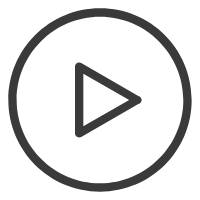
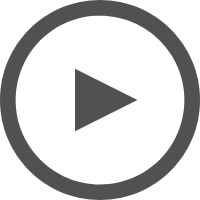
添加音乐播放

diff --git a/wxmusic/components/footer/footer.js b/wxmusic/components/footer/footer.js
@@ -1,10 +1,60 @@
-
+const { baseUrl } = require('../../utils/base.js');
+// 获取全局app中，
+const { data: { innerAudioContext } } = getApp();
 Component({
   data: {
+    playSong: null,
+    isPause: innerAudioContext.paused,
     headNav: [{
       icon: '../../static/音乐.png'
     }, {
       icon: '../../static/用户.png'
     }]
+  },
+  ready() {
+    this.palySong(108914);
+    this.getSongDetail(108914);
+  },
+  methods: {
+    changePlayState() {
+      // 是否暂停状态
+      this.data.isPause ? innerAudioContext.play() : innerAudioContext.pause();
+      this.ctrlBtn();
+    },
+    // 通过isPause的状态来切换按钮的展示
+    ctrlBtn(){
+      let isPause = !this.data.isPause;
+      this.setData({
+        isPause
+      })
+    },
+    //===============API===============\\
+    // 通过歌曲的id获取歌曲的url，可以利用url播放音乐
+    palySong(songId) {
+      let that = this;
+      wx.request({
+        url: `${baseUrl}/music/url?id=${songId}`,
+        success(res) {
+          let { data } = res;
+          let playSong = data.data[0];
+          that.setData({
+            playSong
+          });
+          console.log(playSong);
+          if (playSong) {
+            innerAudioContext.src = playSong.url;
+          }
+        },
+      })
+    },
+    getSongDetail(songId){
+      const that = this;
+      wx.request({
+        url: `${baseUrl}/song/detail?ids=${songId}`,
+        success(res){
+          console.log(res);
+        }
+      })
+    }
   }
 })

diff --git a/wxmusic/components/main/library/library.js b/wxmusic/components/main/library/library.js
@@ -27,12 +27,14 @@ Component({
       dotColor: 'rgba(255,255,255,0.4)',// 面板指示点默认颜色
       dotActiveColor: 'rgba(229,71,60,0.8)' // 面板指示点选中的颜色
     },
-
+    tjpersonalized:[],// 推荐歌单
   },
   // 钩子函数
   ready() {
     // 获取推荐的banner
     this.getBanners();
+    // 获取推荐歌单
+    this.getTjPersonalized();
   },
   methods: {
     //========事件========\\
@@ -48,18 +50,33 @@ Component({
       });
     },
     //========API=========\\
-    getBanners() {
+    getBanners() {// 获取中间的banner
+      let that = this;
       wx.request({
         url: `${baseUrl}/banner`,
-        success:(res)=>{
+        success(res){
           let { data: { banners } } = res;
-          let {swiper} = this.data;
+          let {swiper} = that.data;
           swiper.swiperList = banners;
-          this.setData({
+          that.setData({
             swiper
           });
         }
       })
     },
+    getTjPersonalized(){// 获取推荐歌单
+      let that = this;
+      wx.request({
+        url: `${baseUrl}/personalized`,
+        success:(res)=>{
+          let {data:{result}} = res;
+          let { tjpersonalized } = that.data;
+          tjpersonalized = result.slice(0,6);// 只保留前6个
+          that.setData({
+            tjpersonalized
+          });
+        }
+      })
+    }
   }
 })

diff --git a/wxmusic/app.js b/wxmusic/app.js
@@ -1,10 +1,21 @@
-//app.js
+//播放音乐的实例
+const innerAudioContext = wx.createInnerAudioContext();
+innerAudioContext.onPlay(() => {
+  console.log('开始播放')
+})
+innerAudioContext.onError((res) => {
+  console.log(res.errMsg)
+  console.log(res.errCode)
+})
 
 App({
-  onShow(){
+  onShow() {
 
   },
-  onHide(){
-    
+  onHide() {
+
+  },
+  data: {
+    innerAudioContext
   }
 })

diff --git a/wxmusic/utils/base.js b/wxmusic/utils/base.js
@@ -1,3 +1,3 @@
 module.exports = {
-  baseUrl:'http://192.168.50.225:4003'
+  baseUrl:'http://192.168.50.225:4003' // 本地调试的服务
 }
